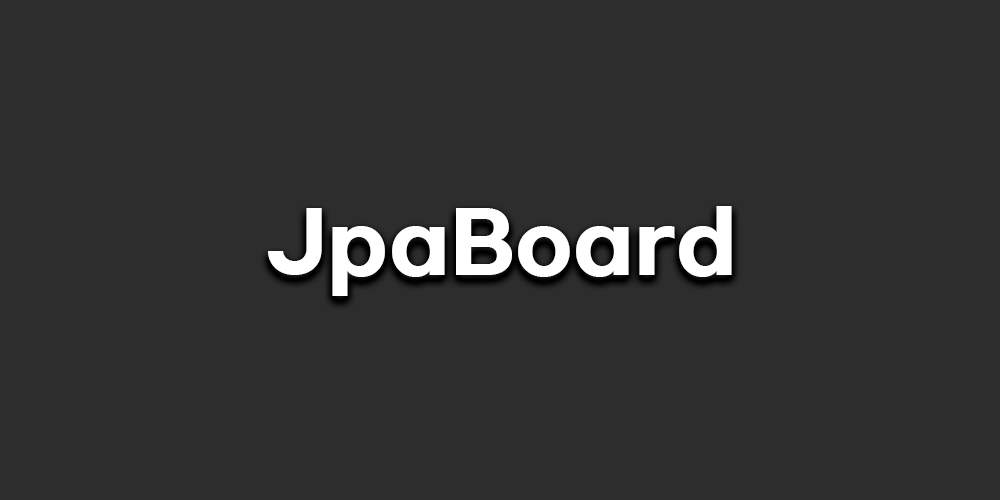
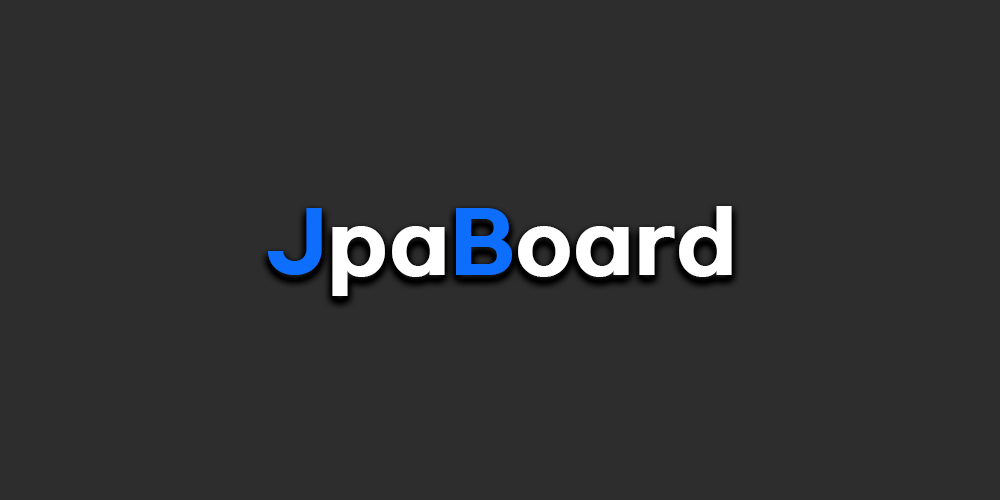
게시글을 클릭하면 조회수가 올라가도록 설정

Changed region(s): [[0.434, 0.39, 0.527, 0.57], [0.248, 0.42, 0.341, 0.57]]

diff --git a/src/main/resources/templates/post/list.html b/src/main/resources/templates/post/list.html
@@ -40,7 +40,7 @@
             <tbody>
                 <tr class="align-middle" th:each="post : ${pagedPosts.content}">
                     <td class="text-center text-dark" th:text="${post.id}"></td>
-                    <td><a class="d-block text-decoration-none text-dark" id="post_title" th:text="${post.title}" th:href="@{|/post/detail/${post.id}|}"></a></td>
+                    <td><a class="text-decoration-none text-dark" id="post_title" th:text="${post.title}" th:href="@{|/post/detail/${post.id}|}"></a></td>
                     <td class="text-dark" th:text="${post.author.username}"></td>
                     <td class="text-center text-dark" th:text="${#temporals.format(post.createDate, 'yyyy-MM-dd')}"></td>
                     <td class="text-center text-dark" th:text="${post.hitCount}"></td>

diff --git a/src/main/resources/templates/common/logo.html b/src/main/resources/templates/common/logo.html
@@ -1,5 +1,5 @@
 <div class="container" style="max-width:1200px;">
     <div class="text-center d-flex align-items-center justify-content-center" style="height:150px;">
-        <h1 class="fw-bolder">JpaBoard</h1>
+        <h1 class="fw-bolder"><span class="text-primary">J</span>pa<span class="text-primary">B</span>oard</h1>
     </div>
 </div>

diff --git a/src/main/resources/templates/common/layout.html b/src/main/resources/templates/common/layout.html
@@ -22,7 +22,7 @@
             <div th:replace="common/navbar"></div>
         </section>
 
-        <section class="mt-5" id="content">
+        <section class="mt-5" style="min-height:550px;" id="content">
             <th:block layout:fragment="content"></th:block>
         </section>
 

diff --git a/src/main/java/gh/springboot/jpaboard/boundedContext/post/PostService.java b/src/main/java/gh/springboot/jpaboard/boundedContext/post/PostService.java
@@ -48,4 +48,11 @@ public class PostService {
         return postRepository.findById(id);
     }
 
+    public void increaseHitCount(Post post) {
+        long hitCount = post.getHitCount();
+        post.setHitCount(hitCount + 1);
+
+        postRepository.save(post);
+    }
+
 }

diff --git a/src/main/java/gh/springboot/jpaboard/boundedContext/post/PostController.java b/src/main/java/gh/springboot/jpaboard/boundedContext/post/PostController.java
@@ -62,6 +62,8 @@ public class PostController {
         Optional<Post> optPost = postService.getPostById(id);
 
         optPost.ifPresent(post -> {
+            postService.increaseHitCount(post);
+
             model.addAttribute("post", post);
         });
 
